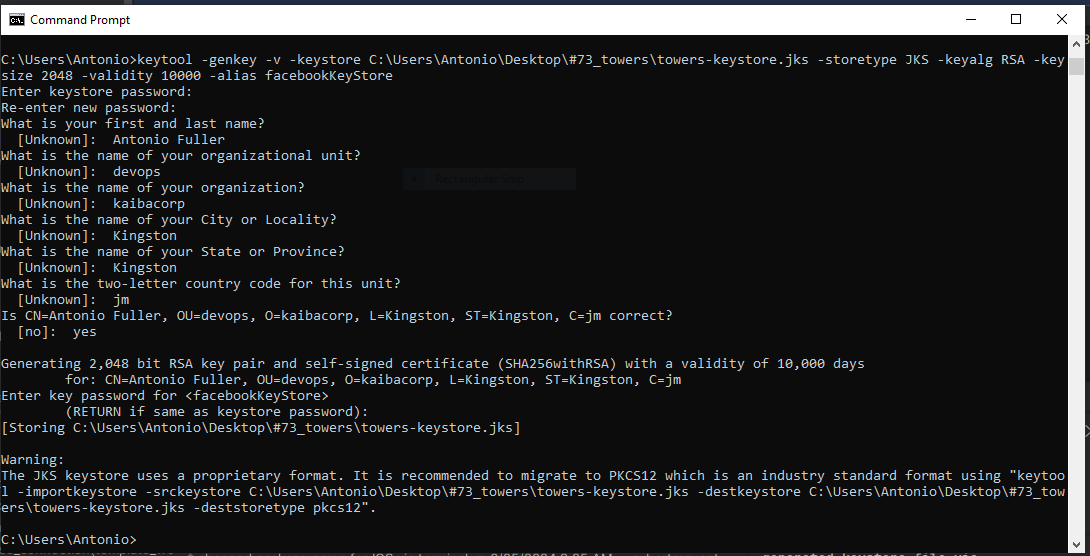
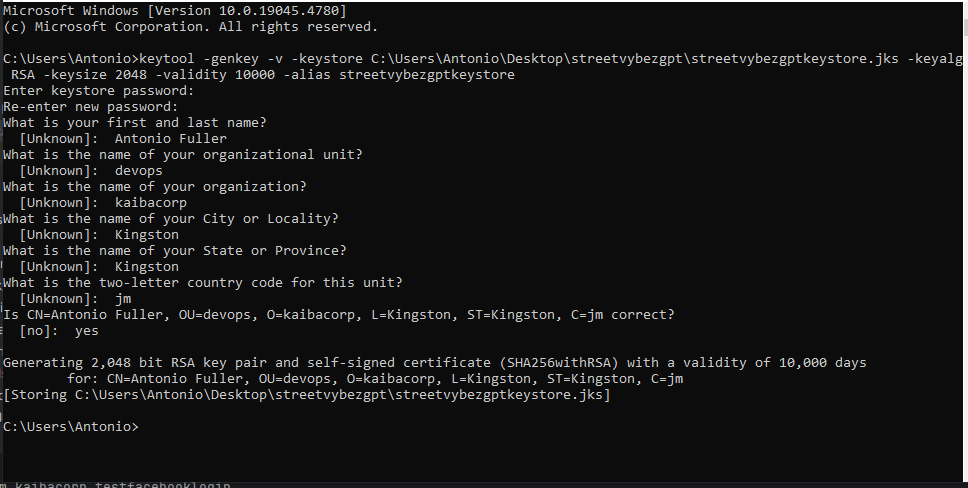
updated package name to com.kaibacorp.streetvybezgpt & firebase & facebook config & google cloud:
- flutter pub run change_app_package_name:main com.kaibacorp.streetvybezgpt

- generated debug & release keystore files

- connected project to firebase

- updated facebook project config

Changed region(s): [[0.0, 0.0, 1.0, 1.0]]

diff --git a/lib/firebase_options.dart b/lib/firebase_options.dart
@@ -58,7 +58,7 @@ class DefaultFirebaseOptions {
 
   static const FirebaseOptions android = FirebaseOptions(
     apiKey: 'AIzaSyD-ay_dC8xHzcTSq8LlGtsPjdUjfYBVx7E',
-    appId: '1:517883933280:android:b3a0660b8ecad6c245c905',
+    appId: '1:517883933280:android:79d12ba249b18a8d45c905',
     messagingSenderId: '517883933280',
     projectId: 'one-firebase-4266a',
     databaseURL: 'https://one-firebase-4266a-default-rtdb.firebaseio.com',
@@ -67,14 +67,14 @@ class DefaultFirebaseOptions {
 
   static const FirebaseOptions ios = FirebaseOptions(
     apiKey: 'AIzaSyBX7JkzB7KK2PVQ8F8X09eUsOGw6XejZIg',
-    appId: '1:517883933280:ios:5ccaca9eda9cc71e45c905',
+    appId: '1:517883933280:ios:ee4064a30195f36645c905',
     messagingSenderId: '517883933280',
     projectId: 'one-firebase-4266a',
     databaseURL: 'https://one-firebase-4266a-default-rtdb.firebaseio.com',
     storageBucket: 'one-firebase-4266a.appspot.com',
-    androidClientId: '517883933280-76edpap5heus1gdk5ls6buqq9e156sid.apps.googleusercontent.com',
-    iosClientId: '517883933280-i953i0sbp3b86i7ah69n1258ffrndfr4.apps.googleusercontent.com',
-    iosBundleId: 'com.kaibacorp.testfacebooklogin',
+    androidClientId: '517883933280-0vv9brsqdss4cdu5iudb16p7nlvh2b5r.apps.googleusercontent.com',
+    iosClientId: '517883933280-esd9jejfqk1kpoq4d7r9bovr3uvl0laj.apps.googleusercontent.com',
+    iosBundleId: 'com.kaibacorp.streetvybezgpt',
   );
 
 }

diff --git a/android/app/src/main/java/com/kaibacorp/streetvybezgpt/MainActivity.java b/android/app/src/main/java/com/kaibacorp/streetvybezgpt/MainActivity.java
@@ -1,4 +1,4 @@
-package com.kaibacorp.testfacebooklogin;
+package com.kaibacorp.streetvybezgpt;
 
 import io.flutter.embedding.android.FlutterActivity;
 

diff --git a/README.md b/README.md
@@ -350,145 +350,93 @@ flutter build aab
 
 
 ### change package name:
-flutter pub run change_app_package_name:main com.kaibacorp.testfacebooklogin
+flutter pub run change_app_package_name:main com.kaibacorp.streetvybezgpt
 
 ### generate keystore file:
-keytool -genkey -v -keystore C:\Users\Antonio\Desktop\testfacebooklogin\testfacebookloginkeystore.jks -keyalg RSA -keysize 2048 -validity 10000 -alias testfacebookloginkeystore
+keytool -genkey -v -keystore C:\Users\Antonio\Desktop\streetvybezgpt\streetvybezgptkeystore.jks -keyalg RSA -keysize 2048 -validity 10000 -alias streetvybezgptkeystore
 
 ### get debug and release keys:
-if you have properly configured your build.gradle file to point to the keystore located at C:\Users\Antonio\Desktop\testfacebooklogin\testfacebookloginkeystore.jks,
+change directory:
+cd ./android
+
+IMPORTANT - if you have properly configured your build.gradle file to point to the keystore located at C:\Users\Antonio\Desktop\streetvybezgpt\streetvybezgptkeystore.jks
 then running "./gradlew signingReport" will include the SHA-1 and SHA-256 fingerprints for that specific keystore stored at that file location.
 the keys (SHA-1 and SHA-256 fingerprints) will be the same each time you run ./gradlew signingReport,
 as long as you are using the same keystore file: ./gradlew signingReport
 
 
 ### Generate Debug Key Hash(The default alias for the debug keystore is androiddebugkey.
-The default password for the debug keystore is android):
-keytool -exportcert -alias androiddebugkey -keystore "C:\Users\Antonio\Desktop\testfacebooklogin\debug.keystore" | openssl sha1 -binary | "C:\Users\Antonio\Desktop\notes\openssl\openssl-0.9.8k_X64\bin\openssl" base64
+The default password for the debug keystore is "android"):
+keytool -exportcert -alias androiddebugkey -keystore "C:\Users\Antonio\Desktop\streetvybezgpt\debug.keystore" | openssl sha1 -binary | "C:\Users\Antonio\Desktop\notes\openssl\openssl-0.9.8k_X64\bin\openssl" base64
 
 
 ### Generate Release Key Hash(Replace testfacebookloginkeystore with your alias.
 Use the correct path to your release keystore.
 Enter your keystore password when prompted.):
-keytool -exportcert -alias testfacebookloginkeystore -keystore C:\Users\Antonio\Desktop\testfacebooklogin\testfacebookloginkeystore.jks | openssl sha1 -binary | "C:\Users\Antonio\Desktop\notes\openssl\openssl-0.9.8k_X64\bin\openssl" base64
+keytool -exportcert -alias streetvybezgptkeystore -keystore C:\Users\Antonio\Desktop\streetvybezgpt\streetvybezgptkeystore.jks | openssl sha1 -binary | "C:\Users\Antonio\Desktop\notes\openssl\openssl-0.9.8k_X64\bin\openssl" base64
 
+- The debug keystore is typically located at C:\Users\Antonio\.android\debug.keystore on Windows, or ~/.android/debug.keystore on Unix-like systems
 
 build.gradle file should correctly reference the new location of the debug keystore and handle signing configurations properly for both debug and release builds if it it moved eg:
-C:\Users\Antonio\Desktop\testfacebooklogin\debug.keystore
+C:\Users\Antonio\Desktop\streetvybezgpt\debug.keystore
 
 
-com.kaibacorp.testfacebooklogin:
+### Generate a New debug Keystore (if needed):
+-keystore specifies the location of the keystore file.
+-alias is the alias name for the key entry.
+-storepass and -keypass are passwords for the keystore and key, respectively:
+keytool -genkey -v -keystore C:/Users/Antonio/.android/debug.keystore -keyalg RSA -keysize 2048 -validity 10000 -alias androiddebugkey -storepass android -keypass android
+
+### key hashes: 
+6i2PLdi45yk8HtkFI2pY/fsDnlQ=
+F09GxWgSqEOJcHjHh2UgLR7+I5k=
+
+### Clean and Rebuild:
+./gradlew clean
+./gradlew build
+
+
+- be sure to reconnect your project to firebase to support the new package name(if it was changed) 
+- and download google-services file if SHA1 key was added to firebase
+- In the Credentials section of Google Cloud Console, ensure OAuth 2.0 Client IDs match configuration in Firebase Console.
+- Make sure package name and SHA-1 fingerprint are correctly listed under 'OAuth client ID' for your Android app(web platform) & get the client id.
+
+
+com.kaibacorp.streetvybezgpt:
 > Task :app:signingReport
 Variant: debug
 Config: debug
-Store: C:\Users\Antonio\Desktop\testfacebooklogin\debug.keystore
-Alias: AndroidDebugKey
-MD5: 24:03:46:95:AE:F8:43:03:99:5A:89:36:A7:2A:F9:33
-SHA1: 8C:09:EF:70:7A:0D:CB:D5:53:95:61:66:4A:DF:C0:AA:0E:F5:3A:11
-SHA-256: 10:D0:04:71:CD:D9:E9:11:74:42:78:B1:05:56:17:3C:37:2B:B8:1B:AC:D2:0C:68:F6:DE:00:30:F8:F2:65:72
-Valid until: Monday, April 20, 2054
+Store: C:\Users\Antonio\Desktop\streetvybezgpt\debug.keystore
+Alias: androiddebugkey
+MD5: E8:EC:D5:91:C6:8B:59:DE:42:7F:A8:51:82:3F:75:37
+SHA1: 6E:65:85:4D:CF:C9:0A:43:66:A9:F6:4E:EC:DA:0C:6F:2A:3E:7A:3F
+SHA-256: 7C:2F:24:93:E7:C7:7D:5F:6D:20:59:0A:03:2A:2A:F7:64:3A:21:12:37:0F:D6:FE:AD:96:20:87:7A:D0:98:4D
+Valid until: Monday, January 8, 2052
 ----------
 Variant: release
 Config: release
-Store: C:\Users\Antonio\Desktop\testfacebooklogin\testfacebookloginkeystore.jks
-Alias: testfacebookloginkeystore
-MD5: 8E:75:CA:A7:7D:0A:04:F2:7D:FF:3D:D4:03:78:4E:5D
-SHA1: FE:5F:C0:44:06:F1:3C:1E:77:56:61:3E:8A:20:F2:83:57:21:E5:69
-SHA-256: 08:03:F4:F0:EB:F0:B7:08:E4:C1:00:E9:CD:C4:AB:48:9F:65:47:53:F0:6C:3F:6D:F1:99:9E:65:95:18:87:AB
-Valid until: Thursday, January 4, 2052
+Store: C:\Users\Antonio\Desktop\streetvybezgpt\streetvybezgptkeystore.jks
+Alias: streetvybezgptkeystore
+MD5: 59:A2:E1:F8:22:8C:5A:A6:FE:96:B1:A9:3E:D7:14:D8
+SHA1: AF:1A:87:83:FB:33:8C:E1:33:6D:BD:66:22:11:5D:2A:21:1D:D3:E1
+SHA-256: 31:6F:85:DC:79:55:83:08:98:61:0C:A4:13:E9:69:3A:16:EC:3C:D0:65:25:C2:49:E3:7B:77:23:B6:1E:DC:96
+Valid until: Monday, January 8, 2052
 ----------
 Variant: profile
 Config: debug
-Store: C:\Users\Antonio\Desktop\testfacebooklogin\debug.keystore
-Alias: AndroidDebugKey
-MD5: 24:03:46:95:AE:F8:43:03:99:5A:89:36:A7:2A:F9:33
-SHA1: 8C:09:EF:70:7A:0D:CB:D5:53:95:61:66:4A:DF:C0:AA:0E:F5:3A:11
-SHA-256: 10:D0:04:71:CD:D9:E9:11:74:42:78:B1:05:56:17:3C:37:2B:B8:1B:AC:D2:0C:68:F6:DE:00:30:F8:F2:65:72
-Valid until: Monday, April 20, 2054
+Store: C:\Users\Antonio\Desktop\streetvybezgpt\debug.keystore
+Alias: androiddebugkey
+MD5: E8:EC:D5:91:C6:8B:59:DE:42:7F:A8:51:82:3F:75:37
+SHA1: 6E:65:85:4D:CF:C9:0A:43:66:A9:F6:4E:EC:DA:0C:6F:2A:3E:7A:3F
+SHA-256: 7C:2F:24:93:E7:C7:7D:5F:6D:20:59:0A:03:2A:2A:F7:64:3A:21:12:37:0F:D6:FE:AD:96:20:87:7A:D0:98:4D
+Valid until: Monday, January 8, 2052
 ----------
 Variant: debugAndroidTest
 Config: debug
-Store: C:\Users\Antonio\Desktop\testfacebooklogin\debug.keystore
-Alias: AndroidDebugKey
-MD5: 24:03:46:95:AE:F8:43:03:99:5A:89:36:A7:2A:F9:33
-SHA1: 8C:09:EF:70:7A:0D:CB:D5:53:95:61:66:4A:DF:C0:AA:0E:F5:3A:11
-SHA-256: 10:D0:04:71:CD:D9:E9:11:74:42:78:B1:05:56:17:3C:37:2B:B8:1B:AC:D2:0C:68:F6:DE:00:30:F8:F2:65:72
-Valid until: Monday, April 20, 2054
-----------
-
-> Task :cloud_firestore:signingReport
-Variant: debugAndroidTest
-Config: debug
-Store: C:\Users\Antonio\Desktop\testfacebooklogin\debug.keystore
-Alias: AndroidDebugKey
-MD5: 24:03:46:95:AE:F8:43:03:99:5A:89:36:A7:2A:F9:33
-SHA1: 8C:09:EF:70:7A:0D:CB:D5:53:95:61:66:4A:DF:C0:AA:0E:F5:3A:11
-SHA-256: 10:D0:04:71:CD:D9:E9:11:74:42:78:B1:05:56:17:3C:37:2B:B8:1B:AC:D2:0C:68:F6:DE:00:30:F8:F2:65:72
-Valid until: Monday, April 20, 2054
-----------
-
-> Task :firebase_auth:signingReport
-Variant: debugAndroidTest
-Config: debug
-Store: C:\Users\Antonio\Desktop\testfacebooklogin\debug.keystore
-Alias: AndroidDebugKey
-MD5: 24:03:46:95:AE:F8:43:03:99:5A:89:36:A7:2A:F9:33
-SHA1: 8C:09:EF:70:7A:0D:CB:D5:53:95:61:66:4A:DF:C0:AA:0E:F5:3A:11
-SHA-256: 10:D0:04:71:CD:D9:E9:11:74:42:78:B1:05:56:17:3C:37:2B:B8:1B:AC:D2:0C:68:F6:DE:00:30:F8:F2:65:72
-Valid until: Monday, April 20, 2054
-----------
-
-> Task :firebase_core:signingReport
-Variant: debugAndroidTest
-Config: debug
-Store: C:\Users\Antonio\Desktop\testfacebooklogin\debug.keystore
-Alias: AndroidDebugKey
-MD5: 24:03:46:95:AE:F8:43:03:99:5A:89:36:A7:2A:F9:33
-SHA1: 8C:09:EF:70:7A:0D:CB:D5:53:95:61:66:4A:DF:C0:AA:0E:F5:3A:11
-SHA-256: 10:D0:04:71:CD:D9:E9:11:74:42:78:B1:05:56:17:3C:37:2B:B8:1B:AC:D2:0C:68:F6:DE:00:30:F8:F2:65:72
-Valid until: Monday, April 20, 2054
-----------
-
-> Task :flutter_facebook_auth:signingReport
-Variant: debugAndroidTest
-Config: debug
-Store: C:\Users\Antonio\Desktop\testfacebooklogin\debug.keystore
-Alias: AndroidDebugKey
-MD5: 24:03:46:95:AE:F8:43:03:99:5A:89:36:A7:2A:F9:33
-SHA1: 8C:09:EF:70:7A:0D:CB:D5:53:95:61:66:4A:DF:C0:AA:0E:F5:3A:11
-SHA-256: 10:D0:04:71:CD:D9:E9:11:74:42:78:B1:05:56:17:3C:37:2B:B8:1B:AC:D2:0C:68:F6:DE:00:30:F8:F2:65:72
-Valid until: Monday, April 20, 2054
-----------
-
-> Task :flutter_secure_storage:signingReport
-Variant: debugAndroidTest
-Config: debug
-Store: C:\Users\Antonio\Desktop\testfacebooklogin\debug.keystore
-Alias: AndroidDebugKey
-MD5: 24:03:46:95:AE:F8:43:03:99:5A:89:36:A7:2A:F9:33
-SHA1: 8C:09:EF:70:7A:0D:CB:D5:53:95:61:66:4A:DF:C0:AA:0E:F5:3A:11
-SHA-256: 10:D0:04:71:CD:D9:E9:11:74:42:78:B1:05:56:17:3C:37:2B:B8:1B:AC:D2:0C:68:F6:DE:00:30:F8:F2:65:72
-Valid until: Monday, April 20, 2054
-----------
-
-> Task :google_sign_in_android:signingReport
-Variant: debugAndroidTest
-Config: debug
-Store: C:\Users\Antonio\Desktop\testfacebooklogin\debug.keystore
-Alias: AndroidDebugKey
-MD5: 24:03:46:95:AE:F8:43:03:99:5A:89:36:A7:2A:F9:33
-SHA1: 8C:09:EF:70:7A:0D:CB:D5:53:95:61:66:4A:DF:C0:AA:0E:F5:3A:11
-SHA-256: 10:D0:04:71:CD:D9:E9:11:74:42:78:B1:05:56:17:3C:37:2B:B8:1B:AC:D2:0C:68:F6:DE:00:30:F8:F2:65:72
-Valid until: Monday, April 20, 2054
-----------
-
-> Task :path_provider_android:signingReport
-Variant: debugAndroidTest
-Config: debug
-Store: C:\Users\Antonio\Desktop\testfacebooklogin\debug.keystore
-Alias: AndroidDebugKey
-MD5: 24:03:46:95:AE:F8:43:03:99:5A:89:36:A7:2A:F9:33
-SHA1: 8C:09:EF:70:7A:0D:CB:D5:53:95:61:66:4A:DF:C0:AA:0E:F5:3A:11
-SHA-256: 10:D0:04:71:CD:D9:E9:11:74:42:78:B1:05:56:17:3C:37:2B:B8:1B:AC:D2:0C:68:F6:DE:00:30:F8:F2:65:72
-Valid until: Monday, April 20, 2054
+Store: C:\Users\Antonio\Desktop\streetvybezgpt\debug.keystore
+Alias: androiddebugkey
+MD5: E8:EC:D5:91:C6:8B:59:DE:42:7F:A8:51:82:3F:75:37
+SHA1: 6E:65:85:4D:CF:C9:0A:43:66:A9:F6:4E:EC:DA:0C:6F:2A:3E:7A:3F
+SHA-256: 7C:2F:24:93:E7:C7:7D:5F:6D:20:59:0A:03:2A:2A:F7:64:3A:21:12:37:0F:D6:FE:AD:96:20:87:7A:D0:98:4D
+Valid until: Monday, January 8, 2052
 ----------
